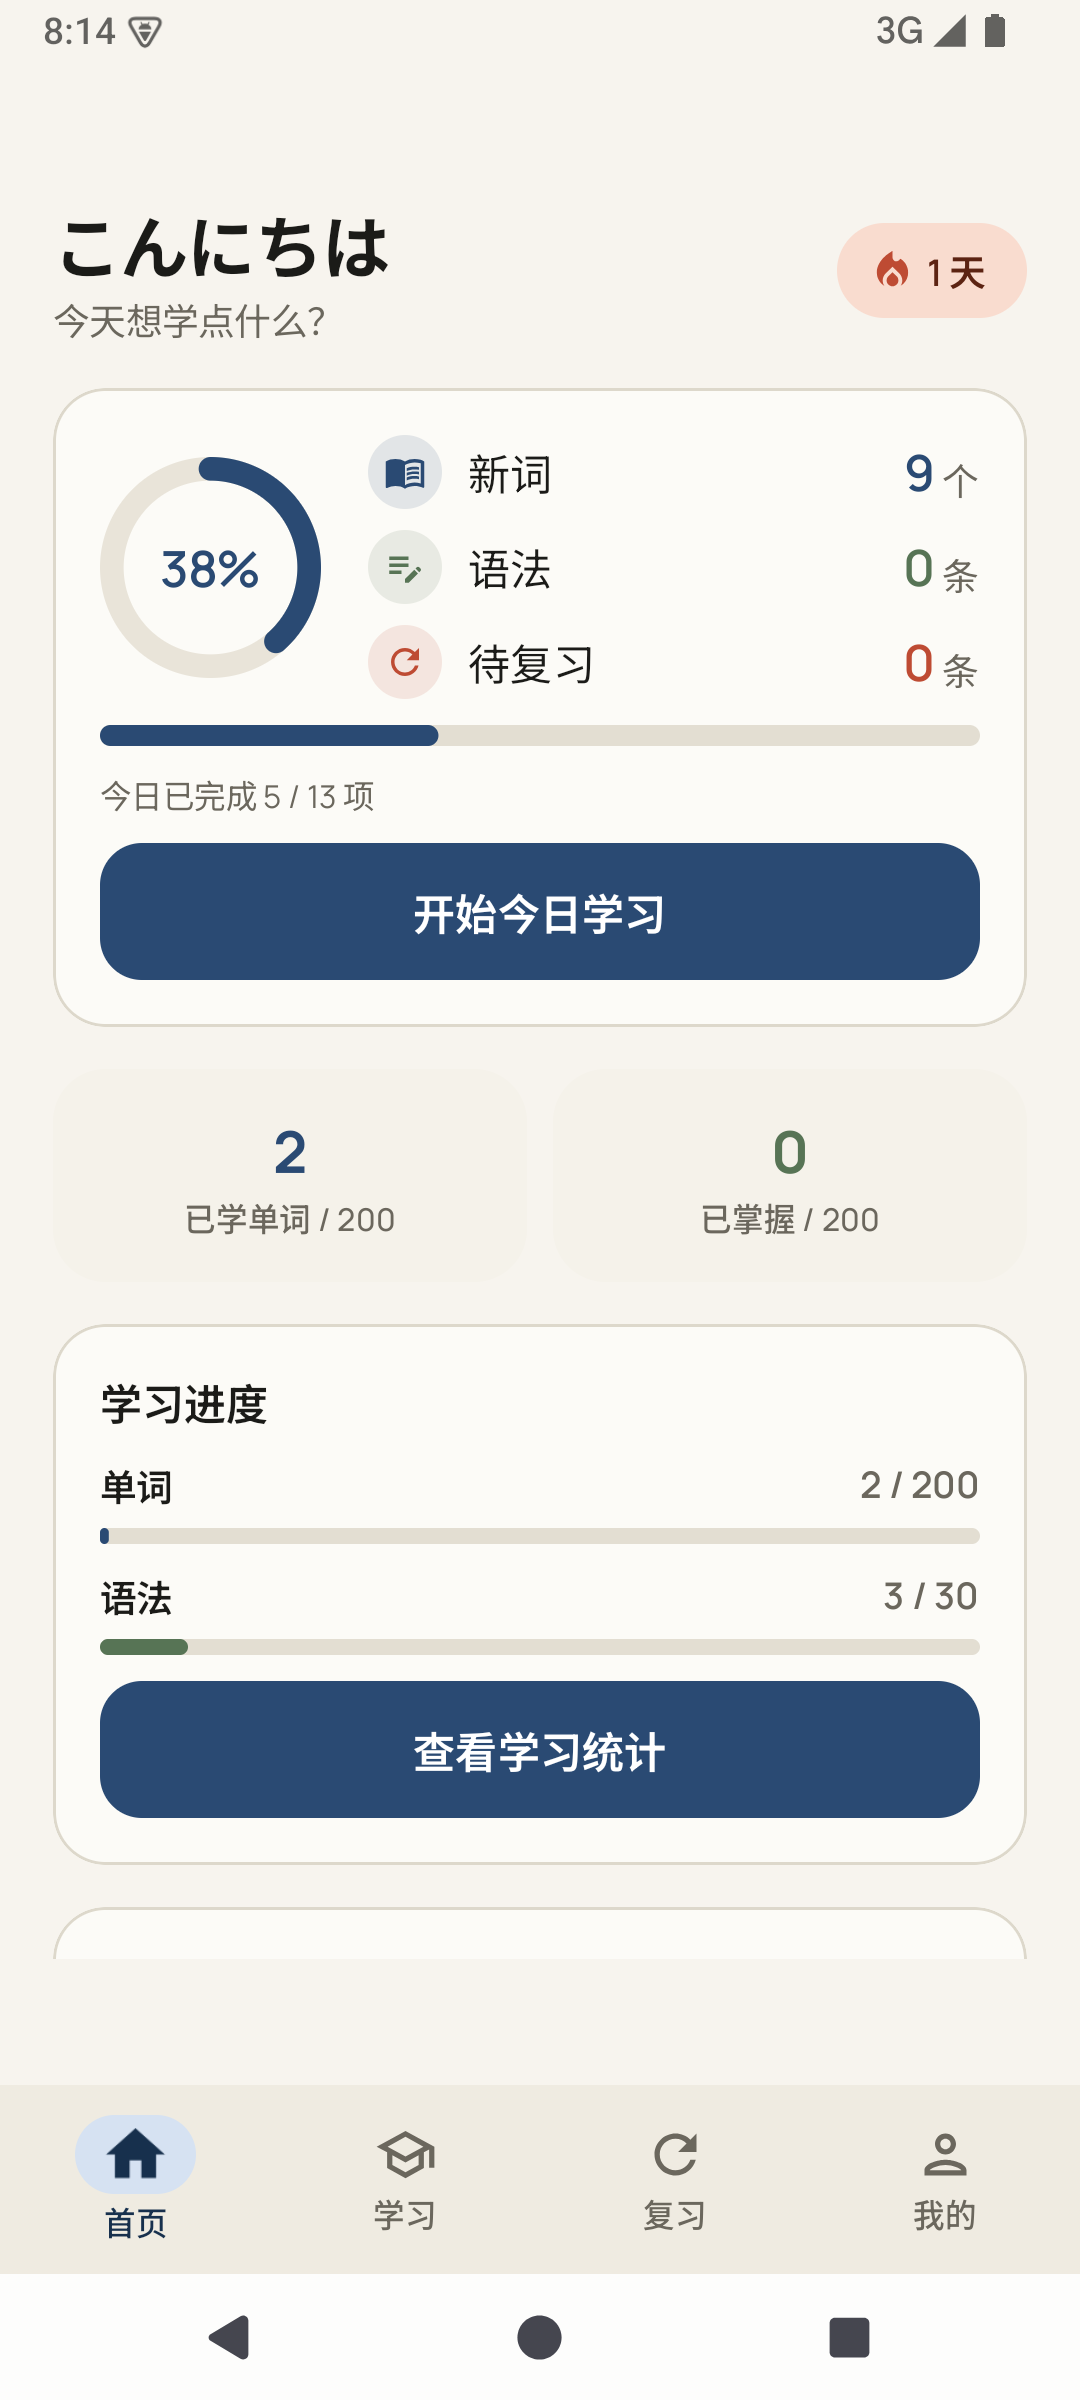
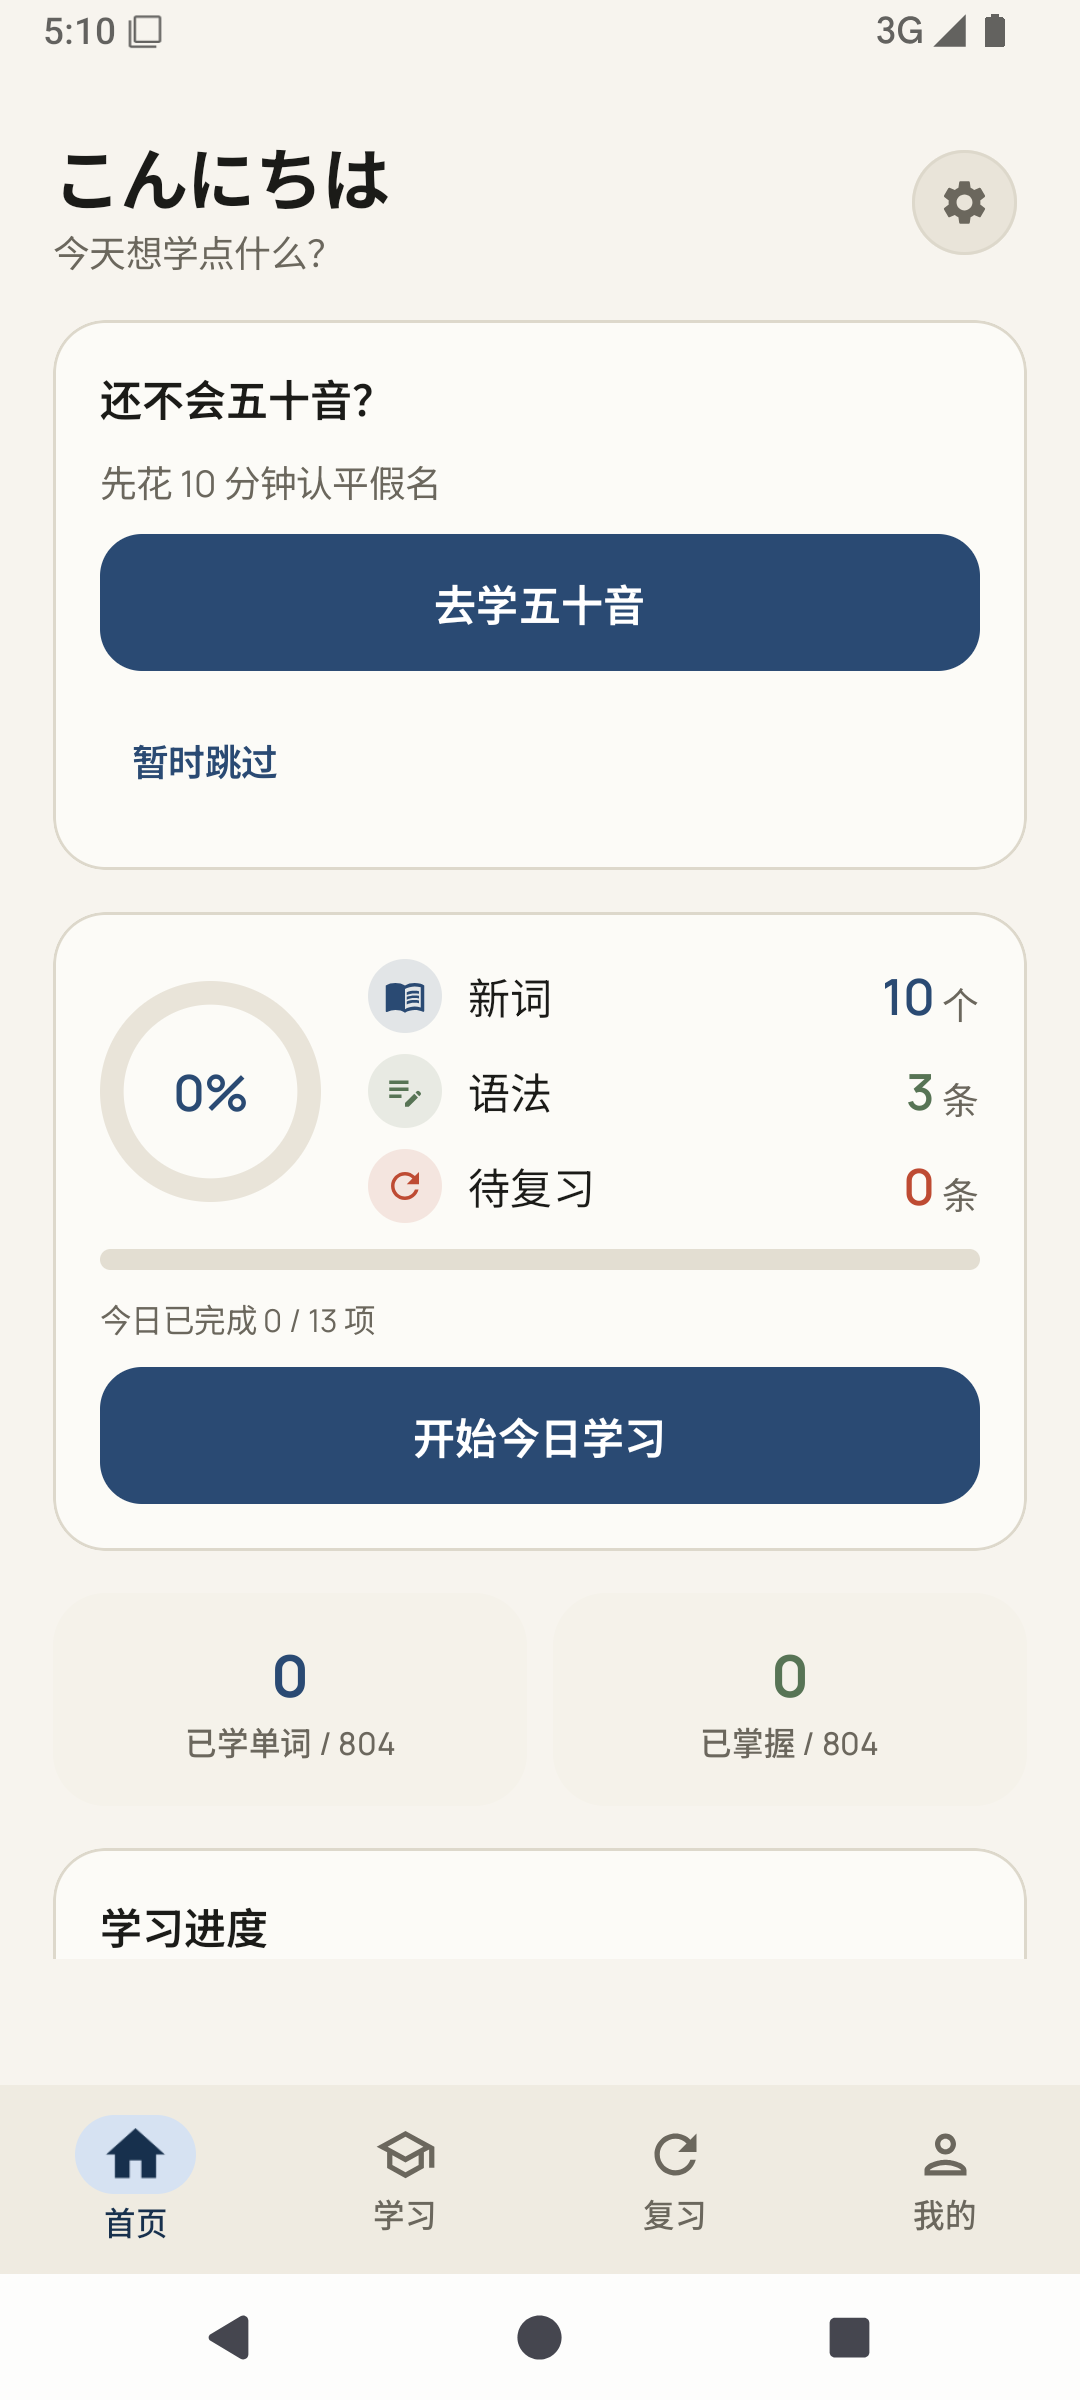
refactor: 更新检查改为每次启动都查（用户定案）
- 移除 24h 节流：shouldCheck 函数与 update_last_check_epoch_day 键整体删除
- 冷启动频次低，GitHub 匿名限额 60/h/IP 足够；紧急版本下次启动即触达
- UpdateCheckerTest 16 → 13 项，全量 244 全绿

diff --git a/app/src/main/java/com/japanlearn/app/data/repositories/ProgressRepository.kt b/app/src/main/java/com/japanlearn/app/data/repositories/ProgressRepository.kt
@@ -208,13 +208,7 @@ class SettingsRepository(context: Context) {
 
     // ---- 更新检查（PRD §19.12：单向拉取，不含用户数据）----
 
-    val updateLastCheckEpochDay = MutableStateFlow(prefs.getLong(KEY_UPDATE_LAST_CHECK, 0L))
     val updateSkippedVersion = MutableStateFlow(prefs.getString(KEY_UPDATE_SKIPPED, "") ?: "")
-
-    fun setUpdateLastCheck(epochDay: Long) {
-        prefs.edit().putLong(KEY_UPDATE_LAST_CHECK, epochDay).apply()
-        updateLastCheckEpochDay.value = epochDay
-    }
 
     fun setUpdateSkippedVersion(version: String) {
         prefs.edit().putString(KEY_UPDATE_SKIPPED, version).apply()
@@ -244,7 +238,6 @@ class SettingsRepository(context: Context) {
         private const val KEY_AI_API_KEY = "ai_api_key"
         private const val KEY_AI_MODEL = "ai_model"
         private const val KEY_AI_DAILY_LIMIT = "ai_daily_limit"
-        private const val KEY_UPDATE_LAST_CHECK = "update_last_check_epoch_day"
         private const val KEY_UPDATE_SKIPPED = "update_skipped_version"
         const val DEFAULT_STUDY_LEVEL = "N5"
         val STUDY_LEVELS = listOf("N5", "N4")

diff --git a/app/src/main/java/com/japanlearn/app/domain/UpdateChecker.kt b/app/src/main/java/com/japanlearn/app/domain/UpdateChecker.kt
@@ -15,16 +15,11 @@ data class ReleaseInfo(
 
 /**
  * 应用内更新检查判定（PRD §19.12）：全部为纯函数，便于单测。
- * 策略：每 24h（按日历日）静默查一次 GitHub releases/latest，有新版才提示，
+ * 策略：每次启动静默查一次 GitHub releases/latest（冷启动频次低，
+ * GitHub 匿名限额 60 次/小时/IP 对单用户绰绰有余），有新版才提示，
  * 用户可跳过当前版本；请求单向拉取，不携带任何用户数据。
  */
 object UpdateChecker {
-
-    /** 距上次检查跨了一个日历日才再查；从未查过（null/0）立即查。 */
-    fun shouldCheck(lastCheckEpochDay: Long?, todayEpochDay: Long): Boolean {
-        if (lastCheckEpochDay == null || lastCheckEpochDay <= 0L) return true
-        return todayEpochDay > lastCheckEpochDay
-    }
 
     /** "v1.3.2" → "1.3.2"；无法解析出数字段时返回 null。 */
     fun parseTag(tag: String): String? {

diff --git a/app/src/main/java/com/japanlearn/app/ui/home/HomeScreen.kt b/app/src/main/java/com/japanlearn/app/ui/home/HomeScreen.kt
@@ -174,12 +174,8 @@ class HomeViewModel(private val app: AppContainer) : ViewModel() {
                 }
             }
         }
-        // 更新检查（PRD §19.12）：每 24h 静默查一次，失败完全无声，有新版才出现横幅
+        // 更新检查（PRD §19.12）：每次启动静默查一次，失败完全无声，有新版才出现横幅
         viewModelScope.launch {
-            val today = app.dateProvider.today().toEpochDay()
-            val last = app.settings.updateLastCheckEpochDay.value
-            if (!UpdateChecker.shouldCheck(last.takeIf { it > 0L }, today)) return@launch
-            app.settings.setUpdateLastCheck(today)
             val body = app.releaseFetcher.fetchLatest() ?: return@launch
             val info = UpdateChecker.parseReleaseResponse(body) ?: return@launch
             val skipped = app.settings.updateSkippedVersion.value.takeIf { it.isNotBlank() }

diff --git a/app/src/test/java/com/japanlearn/app/UpdateCheckerTest.kt b/app/src/test/java/com/japanlearn/app/UpdateCheckerTest.kt
@@ -6,26 +6,8 @@ import org.junit.Assert.assertNull
 import org.junit.Assert.assertTrue
 import org.junit.Test
 
-/** 应用内更新检查（PRD §19.12）：节流、版本比较、提示判定、GitHub 响应解析。 */
+/** 应用内更新检查（PRD §19.12）：版本比较、提示判定、GitHub 响应解析。 */
 class UpdateCheckerTest {
-
-    // ---- shouldCheck（24h 节流，按日历日）----
-
-    @Test
-    fun `从未检查过立即检查`() {
-        assertTrue(UpdateChecker.shouldCheck(null, 100L))
-        assertTrue(UpdateChecker.shouldCheck(0L, 100L))
-    }
-
-    @Test
-    fun `同一天不再检查`() {
-        assertFalse(UpdateChecker.shouldCheck(100L, 100L))
-    }
-
-    @Test
-    fun `跨天再次检查`() {
-        assertTrue(UpdateChecker.shouldCheck(100L, 101L))
-    }
 
     // ---- parseTag ----
 

diff --git a/PRD.md b/PRD.md
@@ -1340,11 +1340,11 @@ grilling 两轮问答确认，效力等同需求。**规划中途获得用户真
 用户需求「每次发布新版本时给用户推送更新」。**明确不做 FCM 系统推送**：大陆无 GMS 设备收不到、需引入 Firebase + 服务端发推逻辑、无账号体系下 device token 管理为纯负担。采用**应用内检查更新**，形态与用户确认（方案 A）：
 
 - **数据源 = GitHub Releases 本身，发版流程零改动**：启动后 GET `api.github.com/repos/Ageha6912/JapanLearn/releases/latest`，取 `tag_name` / `html_url` / `.apk` 资产直链；照常 `gh release create` 即可，无需维护版本清单文件。
-- **节流**：每 24h（按日历日）最多查一次（`update_last_check_epoch_day`），查询前先落检查戳——当天网络失败也不会每次启动重试打 API。
+- **每次启动都查**：不做时间节流——冷启动频次低，GitHub 匿名限额 60 次/小时/IP 对单用户绰绰有余；换来热修复等紧急版本下一次启动即触达。`HomeViewModel` 挂在首页返回栈条目上，App 存活期内不会重复请求。
 - **失败完全静默**：网络不通 / GitHub 超时（3s+5s）/ 响应异常 → 无提示、无报错、无日志噪音；不产生任何新的「App 不可用」故障面。
 - **提示形态**：首页可关闭横幅「新版本 vX.Y.Z 已发布」；「查看更新」跳系统浏览器打开 Release 页（用户自行下载 APK）；「跳过」记录 `update_skipped_version`，该版本不再提示。**第一版不做自动下载 + 唤起安装器**（需 REQUEST_INSTALL_PACKAGES + FileProvider + 厂商安装审核差异，收益不成比例）。
 - **版本判定**：纯函数 semver 数值比较（缺失段补 0，两位数段按数值不按字符串），`versionCode` 之外的 tag 解析（`v` 前缀容忍，脏 tag 拒绝）。
 - **隐私边界不变**：更新检查是设备发起的单向拉取，请求不携带任何用户数据（无 ID、无统计）；学习数据照旧不出设备；「完全离线可用」叙事保持成立——这是继 AI（19.9）之后第二个可选联网点，且无任何配置门槛。
 - **已知局限与升级路径**：`api.github.com` 大陆可达性一般，静默兜底意味着大陆用户可能较少看到提示；若内测反馈集中，升级为方案 B——仓库内 `latest.json` + jsDelivr CDN（大陆可达性好），代价是发版清单多一步「更新 latest.json 并 push」。
-- **实现**：`domain/UpdateChecker.kt` 纯函数（节流 / parseTag / isNewer / shouldPrompt / parseReleaseResponse）+ `data/update/GithubReleaseFetcher.kt`（短超时单向 GET）+ 首页横幅；判定逻辑 16 项单测。随 v1.4 发布，本版不发。
+- **实现**：`domain/UpdateChecker.kt` 纯函数（parseTag / isNewer / shouldPrompt / parseReleaseResponse）+ `data/update/GithubReleaseFetcher.kt`（短超时单向 GET）+ 首页横幅；判定逻辑 13 项单测。随 v1.4 发布，本版不发。
 

diff --git a/HANDOFF.md b/HANDOFF.md
@@ -28,7 +28,7 @@
 ```bash
 ./gradlew :app:assembleDebug        # debug APK
 ./gradlew :app:assembleRelease      # 正式签名 APK（keystore 已配置，见第 6 节坑 9）
-./gradlew :app:testDebugUnitTest    # 单元测试（当前 247 项），必须全绿才能交付
+./gradlew :app:testDebugUnitTest    # 单元测试（当前 244 项），必须全绿才能交付
 python tools/validate_content.py    # 内容校验，必须通过才能改内容；CI 已跑
 ```
 
@@ -55,10 +55,10 @@ python tools/validate_content.py    # 内容校验，必须通过才能改内容
 
 ### 未发版改动（2026-09-12）— 应用内更新检查（PRD §19.12）
 - 用户需求「每次发布新版本时推送更新」，定案**不做 FCM**（大陆无 GMS 收不到 + 需服务端）、采用**应用内检查更新方案 A**：启动静默 GET `api.github.com/repos/Ageha6912/JapanLearn/releases/latest`，发版流程零改动
-- 实现：`domain/UpdateChecker.kt` 纯函数（24h 按日历日节流 / parseTag / semver 数值 isNewer / shouldPrompt 含跳过版本 / parseReleaseResponse）+ `data/update/GithubReleaseFetcher.kt`（3s+5s 短超时，任何失败返回 null 静默）+ `SettingsRepository` 两键（`update_last_check_epoch_day` / `update_skipped_version`）+ HomeViewModel init 检查（**查询前先落检查戳**，失败当天不重试）+ 首页可关闭横幅（「查看更新」跳浏览器 Release 页 / 「跳过」记版本）
+- 实现：`domain/UpdateChecker.kt` 纯函数（parseTag / semver 数值 isNewer / shouldPrompt 含跳过版本 / parseReleaseResponse）+ `data/update/GithubReleaseFetcher.kt`（3s+5s 短超时，任何失败返回 null 静默）+ `SettingsRepository` 单键（`update_skipped_version`）+ HomeViewModel init 每次启动检查（**无时间节流**——用户定案，冷启动频次低、GitHub 匿名限额 60/h/IP 足够，紧急版本下次启动即触达；VM 挂首页返回栈条目，App 存活期内不重复请求）+ 首页可关闭横幅（「查看更新」跳浏览器 Release 页 / 「跳过」记版本）
 - 隐私边界不变：单向拉取不带用户数据（PRD §19.12）；已知局限 = api.github.com 大陆可达性一般，升级路径方案 B（latest.json + jsDelivr）已写入 PRD
-- 测试：UpdateCheckerTest 16 项，全量 247 全绿
-- 模拟器回归：全新安装无崩溃 ✓、启动触发检查（prefs 落检查戳验证 ✓）、无外网静默无横幅 ✓；「有新版出横幅」正向路径由纯函数测试覆盖，待真实新版本发布后真机自然验证
+- 测试：UpdateCheckerTest 13 项，全量 244 全绿
+- 模拟器回归：全新安装无崩溃 ✓、启动触发检查 ✓、无外网静默无横幅 ✓；「有新版出横幅」正向路径由纯函数测试覆盖，待真实新版本发布后真机自然验证
 - **未发版**：versionName 仍 1.3.2，随 v1.4 收口发布
 
 ### v1.3.2 已发布（2026-09-12）— 修复流式回答前出现大量 null
